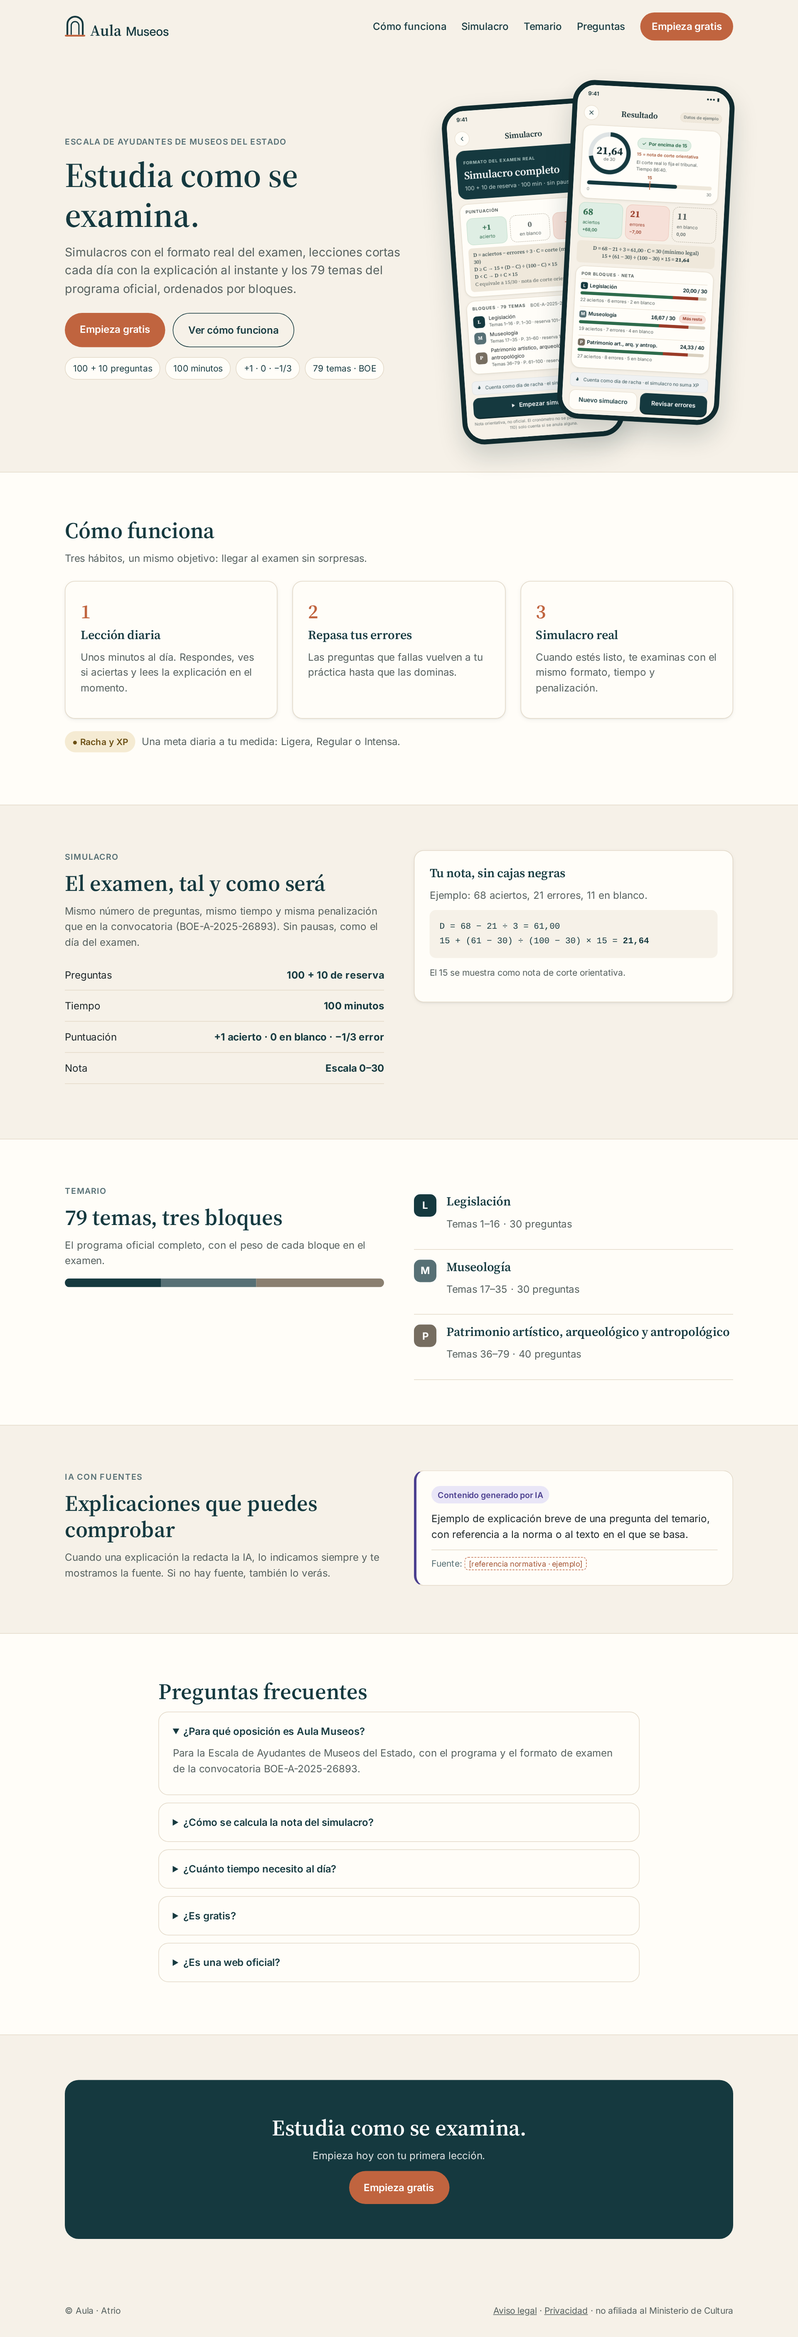
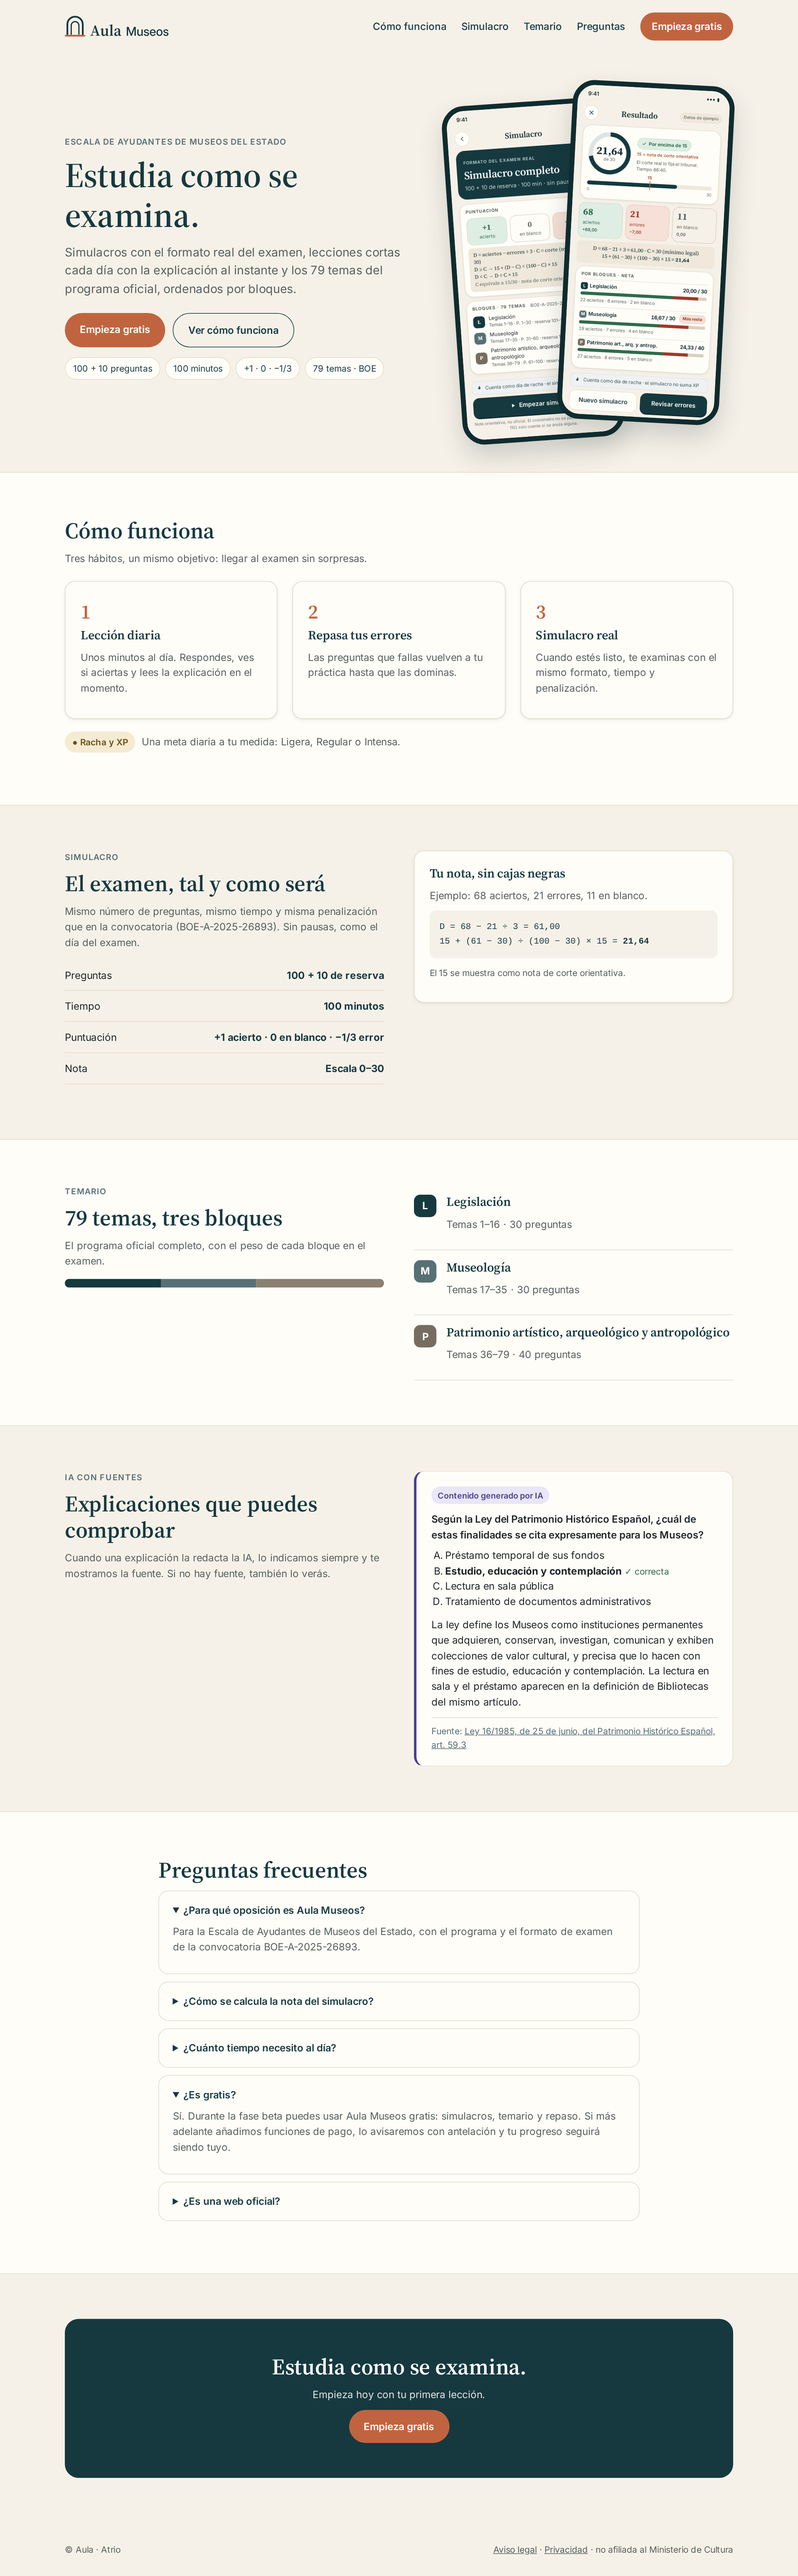
Landing v1: FAQ beta gratis, ejemplo IA con LPHE art. 59.3, SEO al lanzamiento + noindex, crops

diff --git a/aula-museos-landing/index.html b/aula-museos-landing/index.html
@@ -1,5 +1,6 @@
 <!doctype html><html lang="es"><head><meta charset="utf-8"><meta name="viewport" content="width=device-width,initial-scale=1">
 <title>Aula Museos — Oposiciones Ayudantes de Museos del Estado</title>
+<meta name="robots" content="noindex, nofollow">
 <meta name="description" content="Prepara la oposición a la Escala de Ayudantes de Museos del Estado con simulacros en formato real (100 + 10 preguntas, 100 min), lecciones diarias y los 79 temas del BOE. Estudia como se examina.">
 <style>
 @font-face{font-family:Inter;src:url(fonts/inter-latin-wght.woff2) format('woff2');font-weight:100 900;font-display:swap}
@@ -38,7 +39,6 @@ section{padding:72px 0}.alt{background:var(--surface);border-block:1px solid var
 details{background:var(--surface);border:1px solid var(--line);border-radius:var(--r2);padding:18px 22px;margin-bottom:12px}summary{cursor:pointer;font-weight:600;color:var(--ink)}details p{margin-top:10px}
 .final{background:var(--ink);color:#fff;border-radius:var(--r3);padding:56px;text-align:center}.final h2{color:#fff}.final p{color:#DEE3E4}
 footer{padding:32px 0;font-size:14px;color:var(--muted)}footer .w{display:flex;justify-content:space-between;flex-wrap:wrap;gap:12px}
-.ph{border:1px dashed var(--acc);color:var(--acc6);padding:2px 6px;border-radius:6px;font-size:12px}
 @media(max-width:820px){h1{font-size:38px}h2{font-size:28px}nav{display:none}.hero .w,.split,.grid3{grid-template-columns:1fr}.hero{padding:16px 0 40px}.phones{height:440px}.phone{width:200px}.p1{left:0}.p2{right:0}section{padding:48px 0}.final{padding:32px 20px}.btn{width:100%;text-align:center}}
 </style></head><body>
 <a class="skip" href="#main">Saltar al contenido</a>
@@ -70,13 +70,17 @@ footer{padding:32px 0;font-size:14px;color:var(--muted)}footer .w{display:flex;j
 <div class="blk"><span class="badge" style="background:var(--b3t)">P</span><div><h3>Patrimonio artístico, arqueológico y antropológico</h3><p>Temas 36–79 · 40 preguntas</p></div></div></div></div></section>
 
 <section><div class="w split"><div><div class="eyebrow">IA con fuentes</div><h2>Explicaciones que puedes comprobar</h2><p>Cuando una explicación la redacta la IA, lo indicamos siempre y te mostramos la fuente. Si no hay fuente, también lo verás.</p></div>
-<div class="ai"><span class="aitag">Contenido generado por IA</span><p style="color:var(--text)">Ejemplo de explicación breve de una pregunta del temario, con referencia a la norma o al texto en el que se basa.</p><div class="cite">Fuente: <span class="ph">[referencia normativa · ejemplo]</span></div></div></div></section>
+<div class="ai" id="ia-ejemplo"><span class="aitag">Contenido generado por IA</span>
+<p style="color:var(--text);font-weight:600;margin-bottom:8px">Según la Ley del Patrimonio Histórico Español, ¿cuál de estas finalidades se cita expresamente para los Museos?</p>
+<ol type="A" style="margin:0 0 12px;padding-left:22px;color:var(--text)"><li>Préstamo temporal de sus fondos</li><li><b>Estudio, educación y contemplación</b> <span style="color:var(--ok,#2D6B4C);font-size:14px">✓ correcta</span></li><li>Lectura en sala pública</li><li>Tratamiento de documentos administrativos</li></ol>
+<p style="color:var(--text)">La ley define los Museos como instituciones permanentes que adquieren, conservan, investigan, comunican y exhiben colecciones de valor cultural, y precisa que lo hacen con fines de estudio, educación y contemplación. La lectura en sala y el préstamo aparecen en la definición de Bibliotecas del mismo artículo.</p>
+<div class="cite">Fuente: <a href="https://www.boe.es/buscar/act.php?id=BOE-A-1985-12534" rel="noopener" data-ev="lp_source_click">Ley 16/1985, de 25 de junio, del Patrimonio Histórico Español, art. 59.3</a></div></div></div></section>
 
 <section id="faq" class="alt"><div class="w" style="max-width:820px"><h2>Preguntas frecuentes</h2>
 <details open><summary>¿Para qué oposición es Aula Museos?</summary><p>Para la Escala de Ayudantes de Museos del Estado, con el programa y el formato de examen de la convocatoria BOE-A-2025-26893.</p></details>
 <details><summary>¿Cómo se calcula la nota del simulacro?</summary><p>Cada acierto suma 1, cada error resta 1/3 y las preguntas en blanco no puntúan. El resultado se pasa a una escala de 0 a 30 y te mostramos la fórmula completa.</p></details>
 <details><summary>¿Cuánto tiempo necesito al día?</summary><p>Eliges tu meta diaria: Ligera, Regular o Intensa. Si un día no puedes, tienes un día de descanso automático a la semana.</p></details>
-<details><summary>¿Es gratis?</summary><p><span class="ph">[Pendiente: condiciones y precios definidos por producto]</span></p></details>
+<details id="faq-gratis" open><summary>¿Es gratis?</summary><p>Sí. Durante la fase beta puedes usar Aula Museos gratis: simulacros, temario y repaso. Si más adelante añadimos funciones de pago, lo avisaremos con antelación y tu progreso seguirá siendo tuyo.</p></details>
 <details><summary>¿Es una web oficial?</summary><p>No. Aula Museos es una herramienta de preparación independiente, no afiliada al Ministerio de Cultura.</p></details>
 </div></section>
 

diff --git a/aula-museos-landing/render.py b/aula-museos-landing/render.py
@@ -8,3 +8,10 @@ with sync_playwright() as p:
         pg.goto((H/'index.html').as_uri()); pg.wait_for_load_state('networkidle'); pg.evaluate('document.fonts.ready')
         pg.screenshot(path=str(H/'png'/f'{name}.png'),full_page=True)
     b.close()
+with sync_playwright() as p:
+    b=p.chromium.launch()
+    pg=b.new_page(viewport={'width':1280,'height':800},device_scale_factor=1.5)
+    pg.goto((H/'index.html').as_uri()); pg.wait_for_load_state('networkidle'); pg.evaluate('document.fonts.ready')
+    pg.locator('#ia-ejemplo').screenshot(path=str(H/'png'/'crop-ia-ejemplo.png'))
+    pg.locator('#faq').screenshot(path=str(H/'png'/'crop-faq.png'))
+    b.close()

diff --git a/aula-museos-landing/SPEC.md b/aula-museos-landing/SPEC.md
@@ -14,12 +14,12 @@ Mock-up estático de diseño (no código de producción). Abrir `index.html`; re
 3. **Cómo funciona**: 1 Lección diaria · 2 Repasa tus errores · 3 Simulacro real · chip racha/XP (metas Ligera/Regular/Intensa).
 4. **Simulacro**: «El examen, tal y como será» — 100+10, 100 min, +1/0/−1/3, escala 0–30, BOE-A-2025-26893; tarjeta con fórmula del ejemplo 68/21/11 → 21,64; «nota de corte orientativa».
 5. **Temario**: «79 temas, tres bloques» — barra 30/30/40; Legislación 1–16 (30), Museología 17–35 (30), Patrimonio artístico, arqueológico y antropológico 36–79 (40).
-6. **IA con fuentes**: ejemplo con etiqueta «Contenido generado por IA» + «Fuente: …» (si no hay: «Sin fuente»).
-7. **FAQ** (`<details>`): oposición, cálculo de nota, tiempo al día, ¿es gratis? (**placeholder**), ¿es oficial? (no afiliada).
+6. **IA con fuentes**: pregunta tipo test sobre la definición de Museo (correcta: «Estudio, educación y contemplación»), explicación parafraseada, etiqueta «Contenido generado por IA» + «Fuente: Ley 16/1985, de 25 de junio, del Patrimonio Histórico Español, art. 59.3» (enlace BOE-A-1985-12534). Si no hay fuente: «Sin fuente».
+7. **FAQ** (`<details>`): oposición, cálculo de nota, tiempo al día, ¿es gratis? («Sí. Durante la fase beta puedes usar Aula Museos gratis: simulacros, temario y repaso. Si más adelante añadimos funciones de pago, lo avisaremos con antelación y tu progreso seguirá siendo tuyo.»), ¿es oficial? (no afiliada).
 8. **CTA final** (fondo ink): «Estudia como se examina.» · «Empieza hoy con tu primera lección.» · «Empieza gratis».
 9. **Footer**: «© Aula · Atrio» · «Aviso legal · Privacidad · no afiliada al Ministerio de Cultura».
 
-Prohibido: «Duolingo», «garantía de aprobado», sellos/logos del Estado o Ministerio, mascotas/vidas/ligas, estadísticas, testimonios o precios inventados. Placeholders marcados con borde discontinuo terracota `[…]`.
+Prohibido: «Duolingo», «garantía de aprobado», sellos/logos del Estado o Ministerio, mascotas/vidas/ligas, estadísticas, testimonios o precios inventados. Sin placeholders en v1.
 
 ## Breakpoints
 - **1280** (desktop): contenedor 1120, hero 2 columnas, grids 3/2 columnas.
@@ -30,10 +30,13 @@ Prohibido: «Duolingo», «garantía de aprobado», sellos/logos del Estado o Mi
 - Foco visible (anillo gold 3px), objetivos táctiles ≥44px, FAQ con `<details>` nativo, mockups de móvil `aria-hidden`, barra de bloques con `role="img"` + `aria-label`.
 - `font-display: swap`; respetar `prefers-reduced-motion` si se añade animación.
 
-## SEO
-- Title: «Aula Museos — Oposiciones Ayudantes de Museos del Estado»
-- Description: «Prepara la oposición a la Escala de Ayudantes de Museos del Estado con simulacros en formato real (100 + 10 preguntas, 100 min), lecciones diarias y los 79 temas del BOE. Estudia como se examina.»
-- Añadir en prod: canonical `https://aulamuseos.es/`, OG/Twitter (imagen 1200×630 a diseñar), FAQPage JSON-LD.
+## SEO (al lanzamiento)
+Nada publicado; el dominio aulamuseos.es aún no está conectado. Todo lo siguiente se aplica **al lanzamiento**:
+- Title (al lanzamiento): «Aula Museos — Oposiciones Ayudantes de Museos del Estado»
+- Description (al lanzamiento): «Prepara la oposición a la Escala de Ayudantes de Museos del Estado con simulacros en formato real (100 + 10 preguntas, 100 min), lecciones diarias y los 79 temas del BOE. Estudia como se examina.»
+- Canonical (al lanzamiento): `https://aulamuseos.es/` · dominio (al lanzamiento): aulamuseos.es.
+- OG/Twitter (imagen 1200×630 a diseñar) y FAQPage JSON-LD, al lanzamiento.
+- **Previews / staging:** `<meta name="robots" content="noindex, nofollow">` (o cabecera `X-Robots-Tag: noindex`) y sin canonical hasta el lanzamiento; quitar noindex solo al publicar en el dominio.
 
 ## Analítica (nombres de eventos)
-- `lp_view` · `lp_cta_click` {loc: nav|hero|final} · `lp_secondary_click` · `lp_section_view` {id} · `lp_faq_open` {q} · `lp_footer_click` {link}. Atributos `data-ev`/`data-loc` en el mockup.
+- `lp_view` · `lp_cta_click` {loc: nav|hero|final} · `lp_secondary_click` · `lp_section_view` {id} · `lp_faq_open` {q} · `lp_footer_click` {link} · `lp_source_click`. Atributos `data-ev`/`data-loc` en el mockup.
